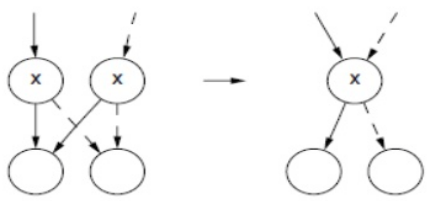
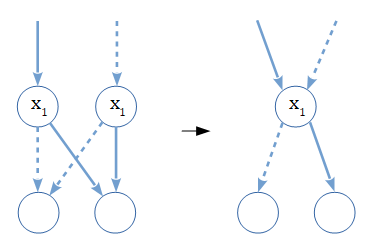
[Parts] Add ROBDD construction eexample

diff --git a/paper/delovi/13_obdd.tex b/paper/delovi/13_obdd.tex
@@ -24,21 +24,20 @@ ROBDD se mo\v{z}e konstruisati na vi\v{s}e na\v{c}ina. U ovom poglavlju \'c{}e n
 
 Najjednostavniji na\v{c}in da se konstrui\v{s}e ROBDD je da se najpre konstrui\v{s}e ekvivalentno uredjeno binarno drvo odlu\v{c}ivanja. Nakon toga se primenjuju slede\'c{}a pravila dokle god ona menjaju postoju\'c{}i dijagram:
 \begin{itemize}
-    \item Pravilo spajanja - Svaka dva podstabla koja imaju izomorfan BDD se spajaju. U baznom slu\v{c}aju to predstavlja spajanje listova koji imaju iste vrednosti.
-    \item Pravilo eliminacije - Ukoliko su i visoko i nisko pod-drvo ista, bazni \v{c}vor se uklanja.
+    \item Pravilo spajanja - Svaka dva podstabla koja imaju izomorfan BDD se spajaju. U baznom slu\v{c}aju to predstavlja spajanje listova koji imaju iste vrednosti (videti sliku \ref{fig:reductionRule}).
+    \item Pravilo eliminacije - Ukoliko su i visoko i nisko pod-drvo ista, bazni \v{c}vor se uklanja (videti sliku \ref{fig:eliminationRule}).
 \end{itemize}
-Ova pravila su ilustrovana slikama \ref{fig:eliminationRule} i \ref{fig:reductionRule}.
 
 \begin{figure}[H]
     \centering
-    \includegraphics[scale=0.35]{slike/pravilo_spajanja.PNG}
+    \includegraphics[scale=0.7]{slike/pravilo_spajanja.PNG}
     \caption{Pravilo spajanja}
     \label{fig:reductionRule}
 \end{figure}
 
 \begin{figure}[H]
     \centering
-    \includegraphics[scale=0.35]{slike/pravilo_eliminacije.PNG}
+    \includegraphics[scale=0.7]{slike/pravilo_eliminacije.PNG}
     \caption{Pravilo eliminacije}
     \label{fig:eliminationRule}
 \end{figure}
@@ -61,8 +60,80 @@ Postupak je rekurzivan: kre\'c{}e se od bulovske funkcije koja se podeli na podf
 Naredni primer oslikava efikasnu metodu za generisanje ROBDD.
 
 \begin{exmp}
-    TODO
+    Posmatrajmo funkciju
+    $$(x_{1} \vee x_{2}) \wedge (\overline{x_{1}} \vee \overline{x_{2}})$$
+    Konstruisa\'c{}emo ROBDD u dva koraka, prvo posmatraju\'c{}i $x_{1} \vee x_{2}$. Iako ve\'c{} znamo kako izgleda ROBDD za ovu funkciju (pogledati poglavlje \ref{sec:BDD}), kako bismo ispo\v{s}tovali postupak idemo dublje i dolazimo do promeljivih $x_{1}$ i $x_{2}$. Njihovi ROBDD su (pritom, redosled smo odabrali tako da $x_{1}$ dolazi pre $x_{2}$):
+
+    \begin{figure}[H]
+        \centering
+        \includegraphics{slike/ROBDD_primer_1.PNG}
+    \end{figure}
+
+    Primenjuju\'c{}i bilo koju bulovsku operaciju nad dva ROBDD sa istim redosledom zna\v{c}i krenuto od korena i pratiti paralelne puteve do listova. Kada stignemo do listova, primenjujemo funkciju nad logi\v{c}kom konstantom sadr\v{z}anom u listu kako bismo formirali rezultat za trenutni put. U na\v{s}em primeru, kre\'c{}emo od $x_{1}$ sa levog dijagrama i hipoteti\v{c}kog $x_{1}$ sa desnog dijagrama:
+
+    \begin{figure}[H]
+        \centering
+        \includegraphics{slike/ROBDD_primer_2.PNG}
+    \end{figure}
+
+    Ako pratimo nisku granu sa oba dijagrama, dolazimo do hipoteti\v{c}kog $x_{2}$ na levom dijagramu. Takodje prikazujemo delimi\v{c}no konstruisani rezultuju\'c{}i ROBDD ispod dva ROBDD za promenljive:
+
+    \begin{figure}[H]
+        \centering
+        \includegraphics{slike/ROBDD_primer_3.PNG}
+    \end{figure}
+
+    S obzirom da niske grane u oba dijagrama vode ka 0, ra\v{c}unamo $0 \vee 0 = 0$ i registrujemo $0$ kao rezultat:
+
+    \begin{figure}[H]
+        \centering
+        \includegraphics{slike/ROBDD_primer_4.PNG}
+    \end{figure}
+
+    Prate\'c{}i visoku granu od $x_{2}$, dolazimo do vrednosti $0$ na levom i $1$ na desnom dijagramu. Primenom funckije dobijamo rezultat $0 \vee 1 = 1$:
+
+    \begin{figure}[H]
+        \centering
+        \includegraphics{slike/ROBDD_primer_5.PNG}
+    \end{figure}
+
+    Vra\'c{}amo se nazad do $x_{1}$ i razmatramo slu\v{c}aj $x_{1} = 1$ i $x_{2} = 0$. U ovom slu\v{c}aju ra\v{c}unamo $1 \vee 0 = 1$. Napominjemo da je \v{c}vor $x_{2}$ u levom dijagramu samo pomo\'c{} za razumevanje algoritma, u implementaciji se ne bi eksplicitno pravio taj \v{c}vor.
+
+    \begin{figure}[H]
+        \centering
+        \includegraphics{slike/ROBDD_primer_6.PNG}
+    \end{figure}
+
+    Na kraju pratimo visoke grane iz oba $x_{2}$ \v{c}vora i dolazimo do vrednosti $1$:
+
+    \begin{figure}[H]
+        \centering
+        \includegraphics{slike/ROBDD_primer_7.PNG}
+    \end{figure}
+
+    Analiziraju\'c{}i rezultat prime\'c{}ujemo da postoje izomorfizmi u konstruisanom dijagramu (pogledati \v{c}vor $x_{2}$ sa desne strane). Stoga, primenjujemo pravilo eliminacije i dobijamo slede\'c{}i rezultat:
+
+    \begin{figure}[H]
+        \centering
+        \includegraphics{slike/ROBDD_primer_8.PNG}
+    \end{figure}
+
+    ROBDD za funkciju $\overline{x_{1}} \vee \overline{x_{2}}$ se mo\v{z}e dobiti invertovanjem vrednosti u listovima ve\'c{} dobijenog dijagrama. Podsetimo se da smo po\v{c}eli od funkcije $(x_{1} \vee x_{2}) \wedge (\overline{x_{1}} \vee \overline{x_{2}})$ i uspe\v{s}no smo kreirali ROBDD za delove, $(x_{1} \vee x_{2})$ i $(\overline{x_{1}} \vee \overline{x_{2}})$, redom:
+
+    \begin{figure}[H]
+        \centering
+        \includegraphics{slike/ROBDD_primer_9.PNG}
+    \end{figure}
+
+    Ponavljaju\'c{}i gore opisan postupak za spajanje dijagrama dolazimo do kona\v{c}nog re\v{s}enja:
+
+    \begin{figure}[H]
+        \centering
+        \includegraphics{slike/ROBDD_primer_10.PNG}
+    \end{figure}
+
+    Takodje, kako bismo pokazali da se funkcije mogu porediti koriste\'c{}i njihove reprezentacije preko dijagrama (sve dok su te reprezentacije kanoni\v{c}ne), mo\v{z}emo se uveriti da va\v{z}i
+    $$(x_{1} \vee x_{2}) \wedge (\overline{x_{1}} \vee \overline{x_{2}}) = x_{1} \oplus x_{2}$$
+    jer je gore konstruisani dijagram identi\v{c}an dijagramu za funkciju $\oplus$ (videti sliku \ref{fig:BDOrXor}).
+\qed
 \end{exmp}
-
-
-
